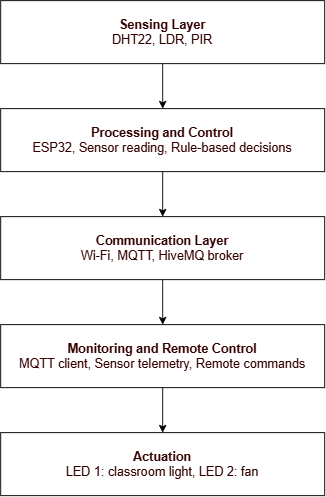
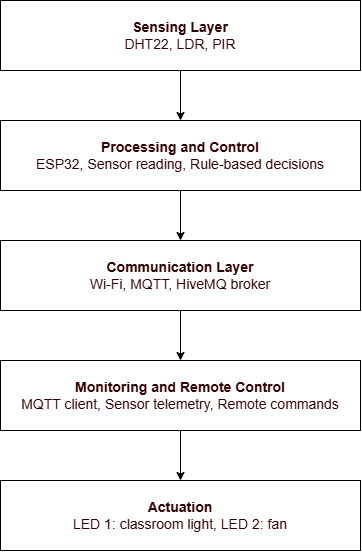
Updated README

diff --git a/README.md b/README.md
@@ -33,6 +33,10 @@ The project is implemented and tested in the Wokwi ESP32 simulator.
 
 ![Dashboard](pictures/dashboard.png)
 
+## Working
+
+![Dashboard](pictures/working.png)
+
 ## Hardware Components
 
 | Component | Purpose |
@@ -82,9 +86,10 @@ smart-classroom-management/
 ├── script.js
 ├── README.md
 └── pictures/
-    ├── circuit_diagram.jpg
-    ├── dashboard.jpg
-    └── architecture_diagram.png
+    ├── circuit_diagram.png
+    ├── dashboard.png
+    ├── architecture_diagram.png
+    └── working.png
 ```
 
 ## Future Scope
